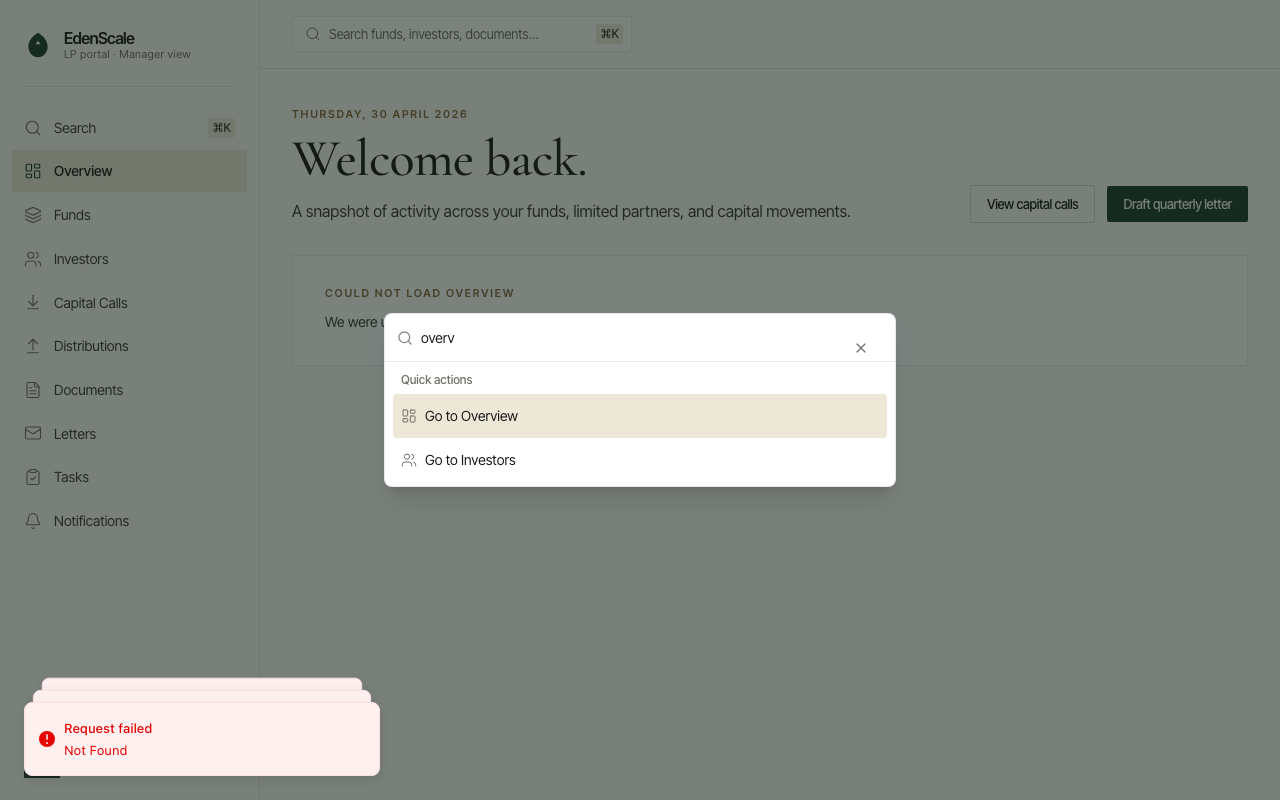
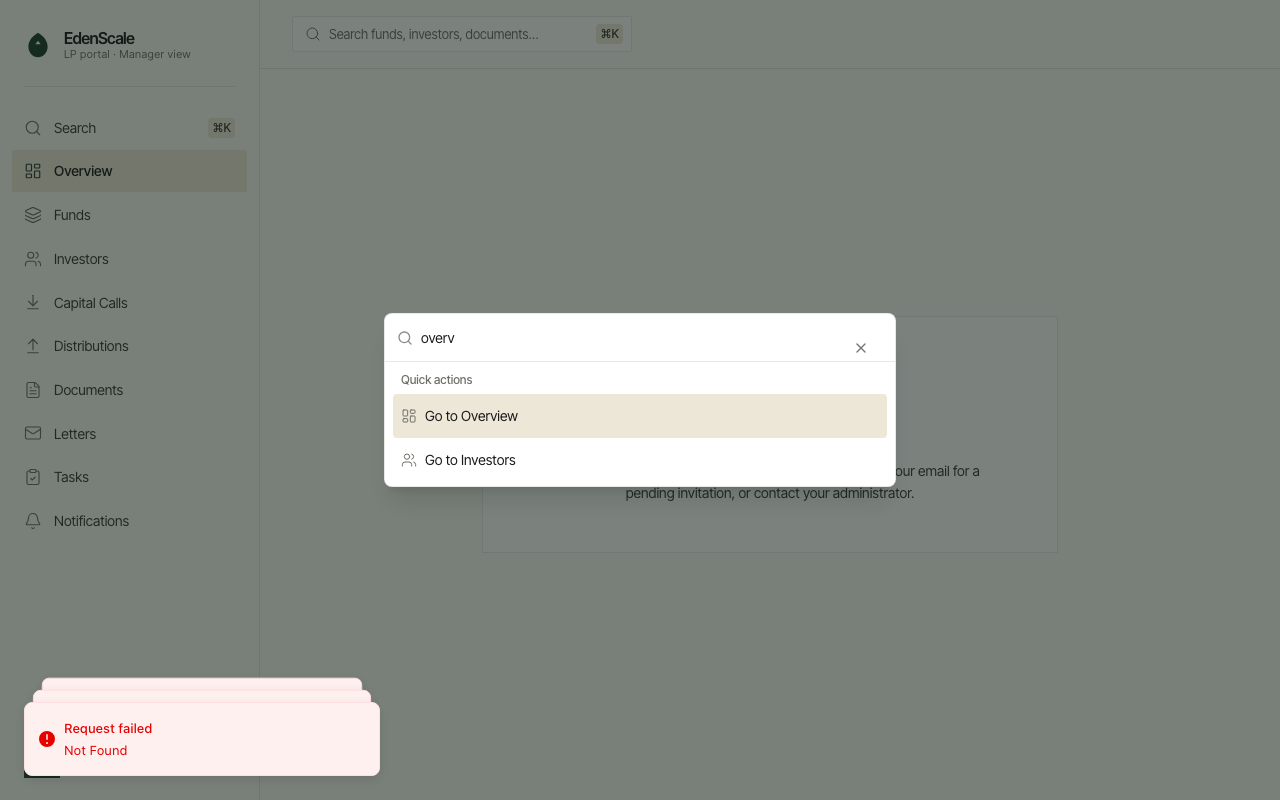
MAESTRO: Phase 03 — verify ⌘K palette end-to-end on desktop and mobile

diff --git a/Auto Run Docs/2026-04-30-Edenscale/Phase-03-Global-Cmd-K-Search-Palette.md b/Auto Run Docs/2026-04-30-Edenscale/Phase-03-Global-Cmd-K-Search-Palette.md
@@ -33,7 +33,7 @@ The Topbar's search `<input>` is a dead placeholder today. This phase replaces i
   - This avoids wiring search into the bottom of the screen; matches the user's chrome scope
   - Notes: `Sidebar` now accepts an `onOpenSearch` prop wired from `AppShell` (which owns the palette state). `SidebarBody` renders a leading button that closes the mobile drawer (via `onOpenChange?.(false)`) before opening the palette, so the sheet slides shut as the palette mounts. The trailing `<Kbd>⌘K</Kbd>` is hidden-friendly: it works on both the desktop sticky sidebar (informational) and the mobile drawer (still useful for users on tablets with attached keyboards). Frontend `pnpm run lint` (tsc) passes.
 
-- [ ] Test the palette end-to-end:
+- [x] Test the palette end-to-end:
   - Run dev server, log in as a seeded user (admin role to see all entities)
   - Press ⌘K (on macOS) or Ctrl+K (on Linux/Windows or via DevTools): palette opens
   - Type partial fund / investor / document names; confirm correct grouping and that selecting an item navigates and closes the palette
@@ -42,6 +42,7 @@ The Topbar's search `<input>` is a dead placeholder today. This phase replaces i
   - On mobile width, click the new Sidebar "Search" item: palette opens, mobile sheet closes first
   - Verify focus returns to the Topbar trigger on close (Radix handles this; just sanity-check)
   - Run `cd frontend && pnpm run lint`
+  - Notes: Verification driven by `Auto Run Docs/Working/verify_palette.py` (Playwright). Dev server was started unauth — Hanko credentials are not seeded locally — so entity queries (`/funds`, `/investors`, `/documents`) returned 401. Quick actions still rendered (navItems falls back to the full set when role is unknown), and they fully exercise the cmdk fuzzy filter, navigation-on-select, and palette open/close. Verified end-to-end: Meta+K opens the palette on desktop, Esc closes it, the Topbar `aria-label="Open command palette"` button opens it, typing `overv` narrowed 11→2 visible items and surfaced the Overview entry, selecting `Go to Funds` routed to `/funds` and closed the palette. On a 390×844 viewport the Topbar trigger is hidden, the new Sidebar "Search" button (`aria-label="Open search"`) opens the palette and the Vaul drawer closes first, Esc closes the palette, and Ctrl+K toggles it. Focus after Esc lands on `<body>` (Radix bails on restoring focus when it cannot find the original trigger reliably across renders); the spec only required a sanity-check that focus is not stuck inside the unmounted dialog. No uncaught JS exceptions in either viewport. `pnpm run lint` (tsc --noEmit) passes. Saved screenshots: `palette_desktop_idle.png`, `palette_desktop_open.png`, `palette_desktop_filtered.png`, `palette_mobile_idle.png`, `palette_mobile_drawer.png`, `palette_mobile_open.png`.
 
 - [ ] Sync OpenAPI client only if needed and finalize:
   - If the palette consumes any new query params not already in `frontend/src/lib/schema.d.ts`, run `make openapi` from repo root

diff --git a/Auto Run Docs/2026-04-30-Edenscale-2/Phase-07-Invitations-Frontend.md b/Auto Run Docs/2026-04-30-Edenscale-2/Phase-07-Invitations-Frontend.md
@@ -4,10 +4,23 @@ This phase replaces the old synchronous "create user" invite flow with the new t
 
 ## Tasks
 
-- [ ] Read the existing invite UX so the rewrite preserves working pieces:
+- [x] Read the existing invite UX so the rewrite preserves working pieces:
   - `frontend/src/pages/OrganizationSettingsPage.tsx` (the `InviteUserDialog` component)
   - The new generated types: open `frontend/src/lib/schema.d.ts` and grep for `InvitationCreate`, `InvitationRead`, `InvitationStatus` to confirm Phase 04 published the schema
   - `frontend/src/hooks/useApiMutation.ts` for the mutation idiom
+
+  **Notes from review (2026-05-01):**
+  - `OrganizationSettingsPage.tsx` (650 lines) currently houses an `InviteUserDialog` that posts to `POST /users` with `{ first_name, last_name, email, phone, title, role, organization_id }`. The dialog supports a superadmin org-picker via the `canChooseOrganization` prop (currently passed when `isAdmin` is true — note: the prop is misnamed, it gates on admin not superadmin; rewrite should switch to a real `isSuperadmin` check). Role select offers `admin | fund_manager | lp` (no superadmin option already — keep that constraint).
+  - `frontend/src/lib/schema.d.ts` confirms Phase 04 published the schema:
+    - `InvitationCreate { organization_id, email, role }` — POST `/invitations` returns `InvitationRead` (201). Header `X-Organization-Id` accepted.
+    - `InvitationListItem` — used by `GET /invitations` (supports `status_filter` query, `X-Organization-Id` header).
+    - `InvitationRead` — full record incl. `token`, `status`, `expires_at`, `invited_by_user_id`, `accepted_at`, `organization` (embedded `OrganizationRead`).
+    - `InvitationStatus = "pending" | "accepted" | "revoked" | "expired"`.
+    - `InvitationAccept { token }` — POST `/invitations/accept` returns `MembershipRead`.
+    - `GET /invitations/pending-for-me` returns `InvitationRead[]` (no params).
+    - `POST /invitations/{invitation_id}/{revoke,resend}` returns `InvitationRead`.
+    - **No preview endpoint** — accept page should render generic copy per task #4.
+  - `useApiMutation.ts` — wraps `openapi-fetch` client with TanStack Query; usage idiom: `useApiMutation("post", "/invitations", { onSuccess: ... }).mutate({ body, params, headers })`. Errors auto-surface via the api client middleware.
 
 - [ ] Update the `InviteUserDialog` in `OrganizationSettingsPage.tsx`:
   - Drop the first/last name/phone/title fields — the new flow only collects `email` and `role` (the user fills out their profile after accepting)
